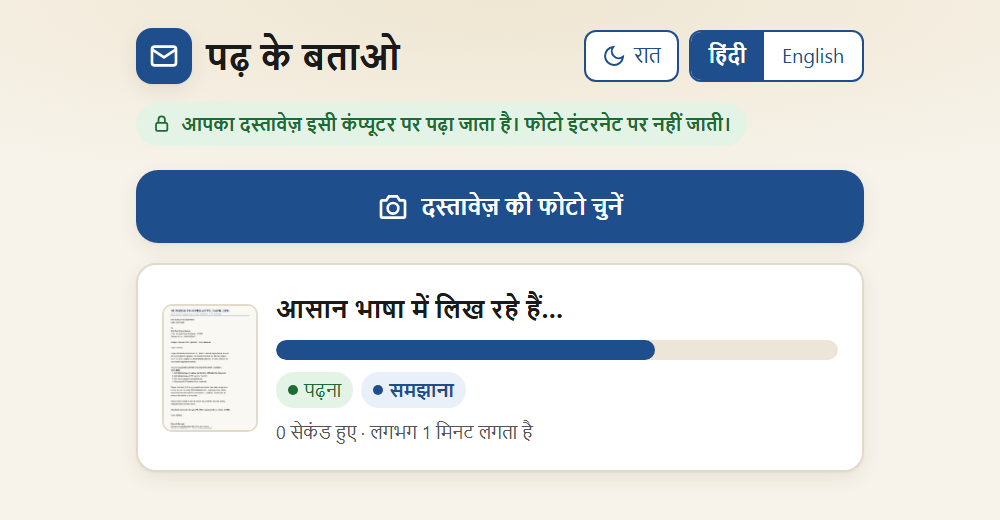
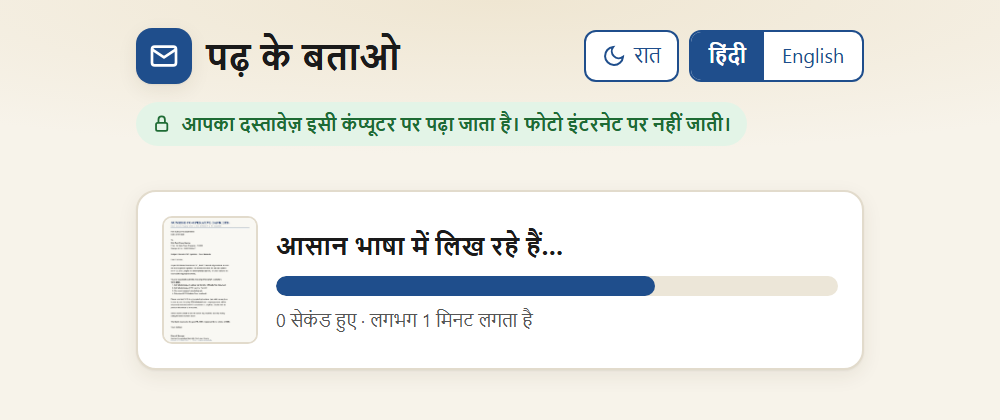
fix: simplify the processing screen
- Hide the photo picker while a document is being read; it returns
  (compact) with the result or an error
- Remove the reading/explaining step pills; the status line above the
  progress bar already shows the stage
- Update the progress screenshot

Changed region(s): [[0.124, 0.031, 0.868, 0.9286]]

diff --git a/public/js/app.js b/public/js/app.js
@@ -68,8 +68,6 @@ function setProgress(phase, chars, startedAt) {
     ? 40 + Math.min(chars / EXPECTED_CHARS, 1) * 58
     : Math.min((Date.now() - startedAt) / EXPECTED_READ_MS, 1) * 38;
   $('bar').style.width = `${pct}%`;
-  $('phaseReading').className = phase === 'writing' ? 'done' : 'active';
-  $('phaseWriting').className = phase === 'writing' ? 'active' : '';
 }
 
 function showError(message) {
@@ -77,6 +75,7 @@ function showError(message) {
   $('errorText').textContent = message;
   $('error').hidden = false;
   $('again').hidden = false;
+  $('pick').hidden = false;
 }
 
 function showResult(data, seconds) {
@@ -109,6 +108,7 @@ function showResult(data, seconds) {
   $('progress').hidden = true;
   $('result').hidden = false;
   $('again').hidden = false;
+  $('pick').hidden = false;
   $('result').scrollIntoView({ behavior: 'smooth', block: 'start' });
 }
 
@@ -123,6 +123,7 @@ async function explain(image) {
   $('again').hidden = true;
   $('steps').hidden = true;
   $('pick').classList.add('compact');
+  $('pick').hidden = true; // no new photo while one is being read
   $('thumb').src = image;
   $('progress').hidden = false;
 

diff --git a/public/css/styles.css b/public/css/styles.css
@@ -136,17 +136,6 @@ input[type="file"] { display: none; }
   animation: shimmer 1.8s linear infinite;
 }
 @keyframes shimmer { to { background-position: -250% 0; } }
-.phases { display: flex; gap: 8px; flex-wrap: wrap; margin: 12px 0 0; padding: 0; list-style: none; font-size: 0.8em; }
-.phases li {
-  display: flex; align-items: center; gap: 6px; margin: 0; padding: 4px 12px;
-  border-radius: 999px; background: var(--track); color: var(--muted);
-}
-.phases li::before { content: ""; width: 10px; height: 10px; border-radius: 50%; background: currentColor; opacity: 0.5; }
-.phases li.active { background: var(--accent-bg); color: var(--accent); font-weight: 700; }
-.phases li.active::before { opacity: 1; animation: pulse 1.2s ease-in-out infinite; }
-.phases li.done { color: var(--low); background: var(--low-bg); }
-.phases li.done::before { opacity: 1; }
-@keyframes pulse { 50% { transform: scale(1.5); } }
 .elapsed { color: var(--muted); font-size: 0.8em; margin: 10px 0 0; }
 
 /* Result */

diff --git a/public/js/i18n.js b/public/js/i18n.js
@@ -8,8 +8,6 @@ export const TEXT = {
     step1: 'दस्तावेज़ की साफ़, सीधी फोटो चुनें',
     step2: 'लगभग एक मिनट रुकें',
     step3: 'आसान भाषा में समझें',
-    phaseReading: 'पढ़ना',
-    phaseWriting: 'समझाना',
     reading: 'दस्तावेज़ पढ़ रहे हैं…',
     writing: 'आसान भाषा में लिख रहे हैं…',
     elapsed: (s) => `${s} सेकंड हुए · लगभग 1 मिनट लगता है`,
@@ -40,8 +38,6 @@ export const TEXT = {
     step1: 'Choose a clear, straight photo',
     step2: 'Wait about one minute',
     step3: 'Read it in simple words',
-    phaseReading: 'Reading',
-    phaseWriting: 'Explaining',
     reading: 'Reading the document…',
     writing: 'Writing it in simple words…',
     elapsed: (s) => `${s} seconds · usually takes about 1 minute`,

diff --git a/public/index.html b/public/index.html
@@ -68,10 +68,6 @@
       <div style="flex:1">
         <p class="status" id="status"></p>
         <div class="bar"><div id="bar"></div></div>
-        <ul class="phases">
-          <li id="phaseReading" data-t="phaseReading"></li>
-          <li id="phaseWriting" data-t="phaseWriting"></li>
-        </ul>
         <p class="elapsed" id="elapsed"></p>
       </div>
     </div>

diff --git a/README.md b/README.md
@@ -2,7 +2,7 @@
 
 # पढ़ के बताओ · Padh Ke Batao
 
-*Padh ke batao* (पढ़ के बताओ) is Hindi for **"read it and tell me"**: what you say when you hand someone a letter you can't fully read yourself.
+*Padh ke batao* (पढ़ के बताओ) is Hindi for **"read it and tell me"**. It's what my Nana says whenever he hands someone a letter he can't read.
 
 **Take a photo of a document (a bank notice, hospital report, pension circular or government letter). Get it explained in simple Hindi or English: what it says, what to do, and by when.**
 
